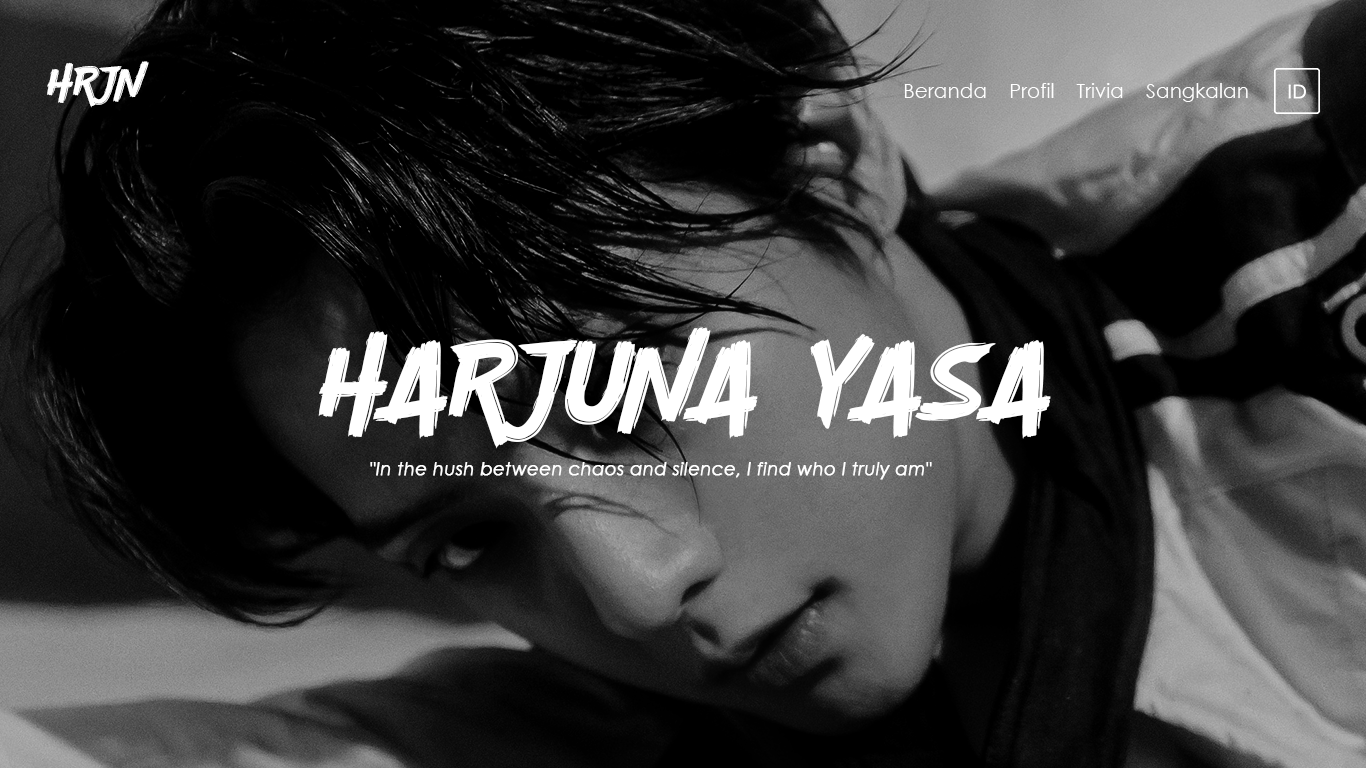
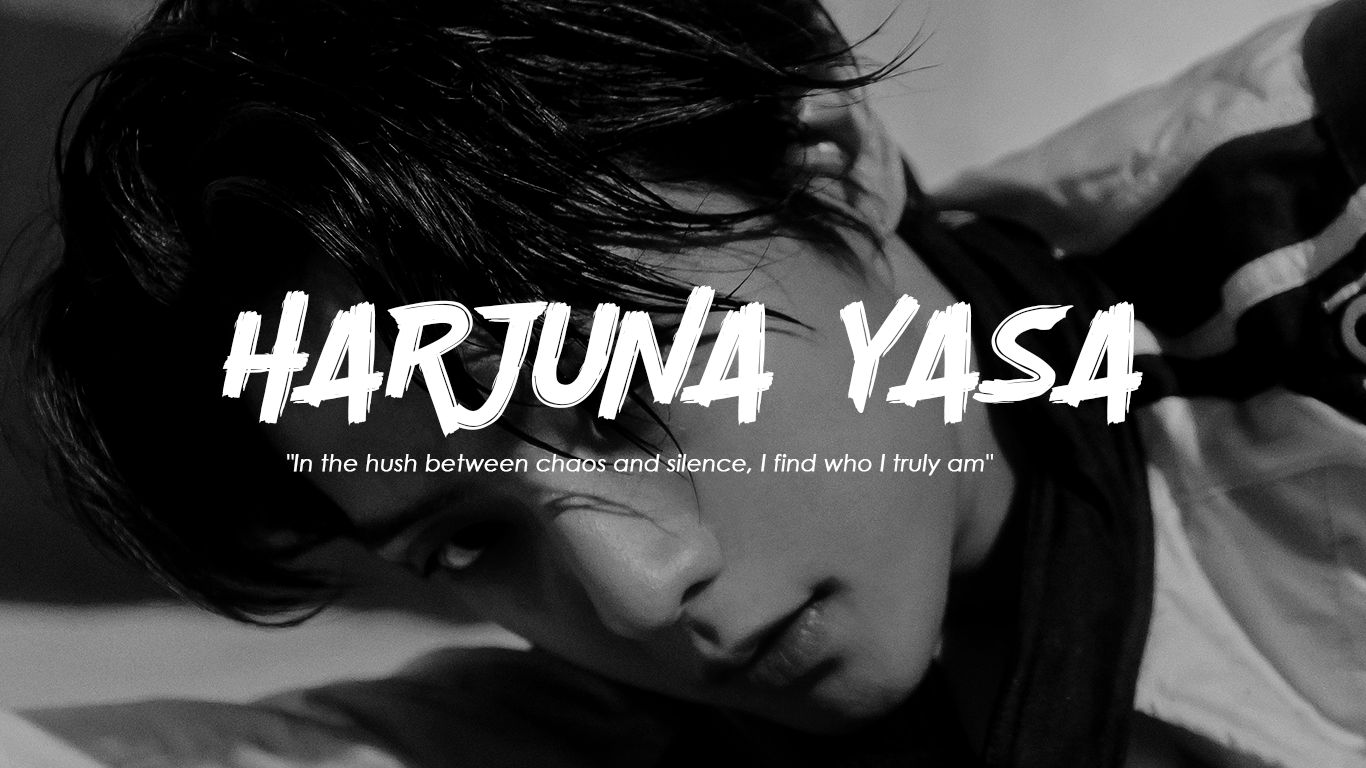
Updates

diff --git a/index.html b/index.html
@@ -5,7 +5,7 @@
     <meta name="viewport" content="width=device-width, initial-scale=1.0" />
 
     <!-- Open Graph meta tags -->
-    <meta property="og:title" content="Harjuna" />
+    <meta property="og:title" content="H A R J U N A ." />
     <meta property="og:description" content="Site of Harjuna" />
     <meta property="og:image" content="https://hrjnys.github.io/thumbnail.png" />
     <meta property="og:url" content="https://hrjnys.github.io/" />
@@ -13,11 +13,9 @@
 
     <!-- Twitter Card -->
     <meta name="twitter:card" content="summary_large_image" />
-    <meta name="twitter:title" content="Harjuna" />
+    <meta name="twitter:title" content="H A R J U N A ." />
     <meta name="twitter:description" content="Site of Harjuna" />
     <meta name="twitter:image" content="https://hrjnys.github.io/thumbnail.png" />
-
-
 
     <title>HRJNYS</title>
     <script type="module" crossorigin src="/assets/index-ff6afc20.js"></script>
